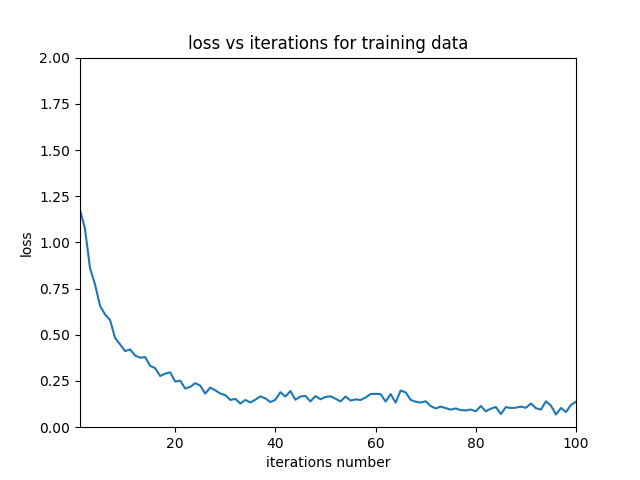
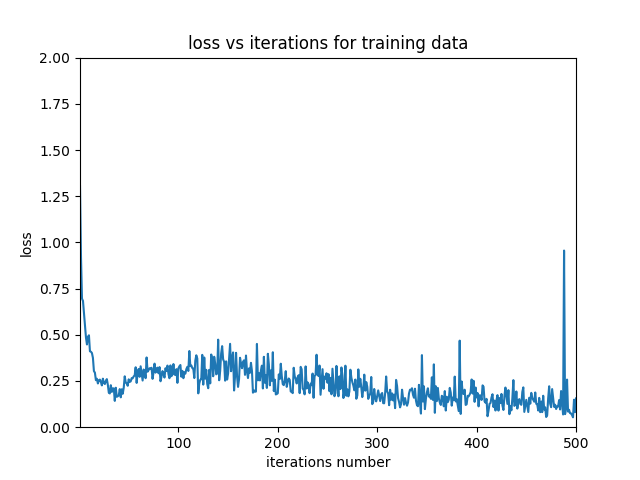
more iteration for net23

diff --git a/main.py b/main.py
@@ -60,7 +60,7 @@ def loadwb(wpath, bpath):
 def q2_123(data):
     case = int(sys.argv[1])
     model = three.ThreeLayers(case)
-    exp = Experiment(model, data, 100, 1)
+    exp = Experiment(model, data, 500, 1)
     exp.train()
     print_graph(exp.loss_log)
 
